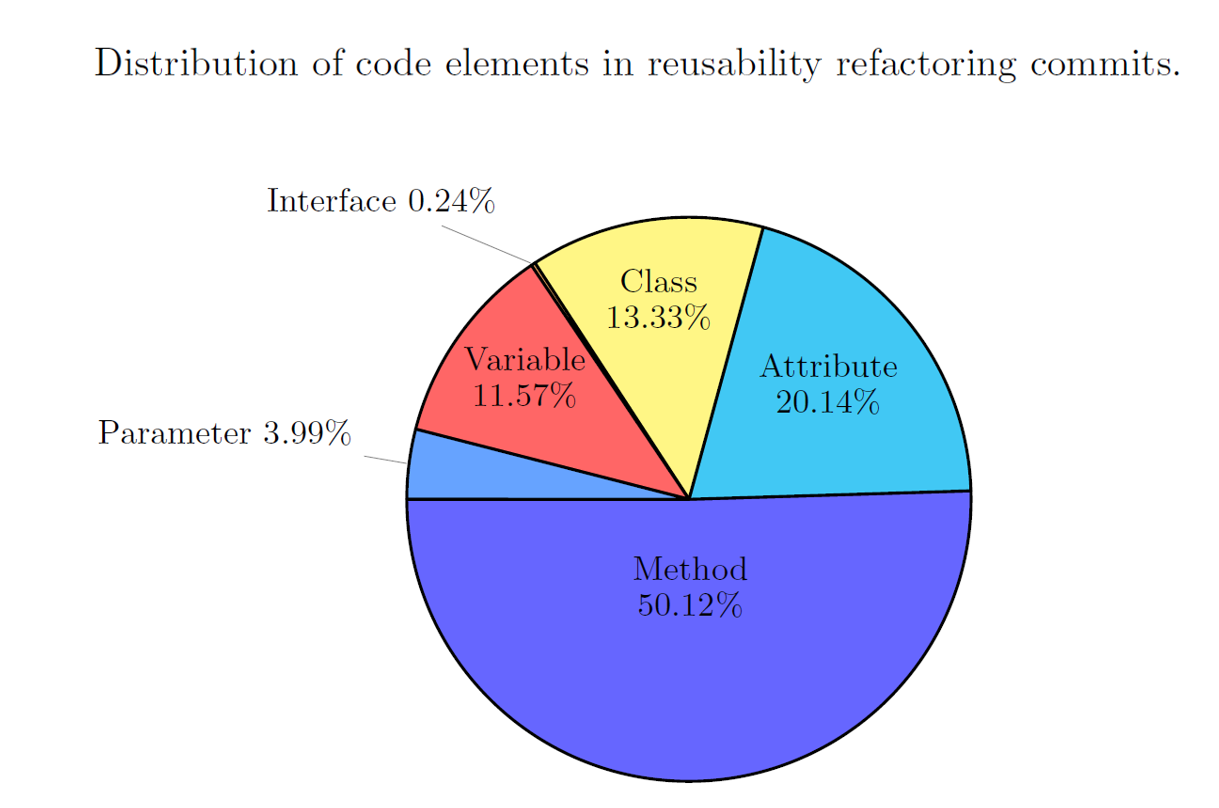
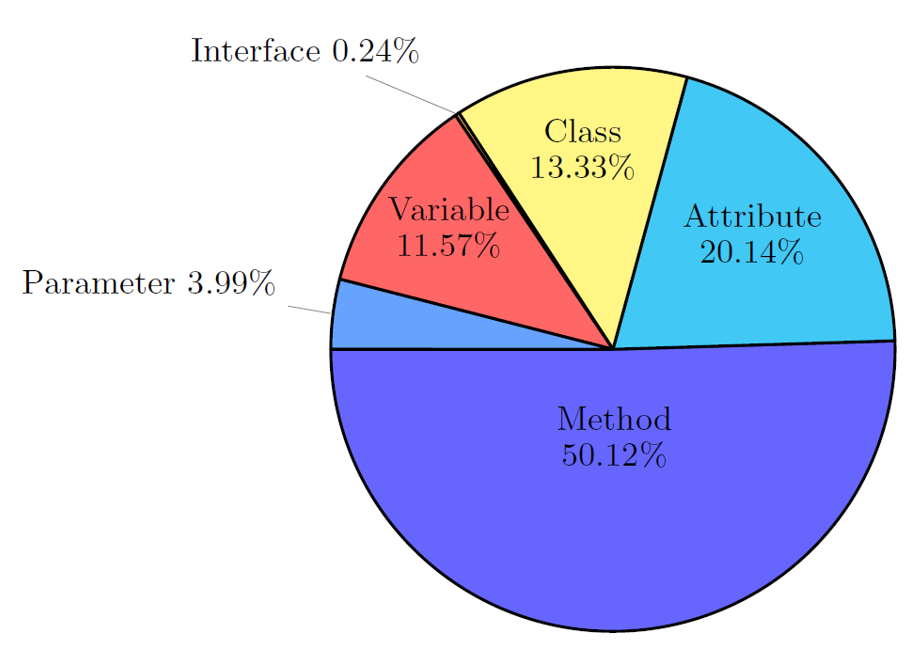
update the ICSR experiment design

diff --git a/ICSR20_Experiment.html b/ICSR20_Experiment.html
@@ -98,8 +98,7 @@ and parameters.</p></blockquote>
   <div class="row">
     <div class="col-sm-12">
       <div class="panel panel-primary">
-        <div class="panel-heading">
-</div>
+        <div class="panel-heading">Distribution of code elements in reusability refactoring commits</div>
         <div class="panel-body"><img src="./Images/ICSR_CodeElementDist.PNG" class="img-responsive" style="width:100%" alt="Image"></div>
         <div class="panel-footer"></div>
       </div>
